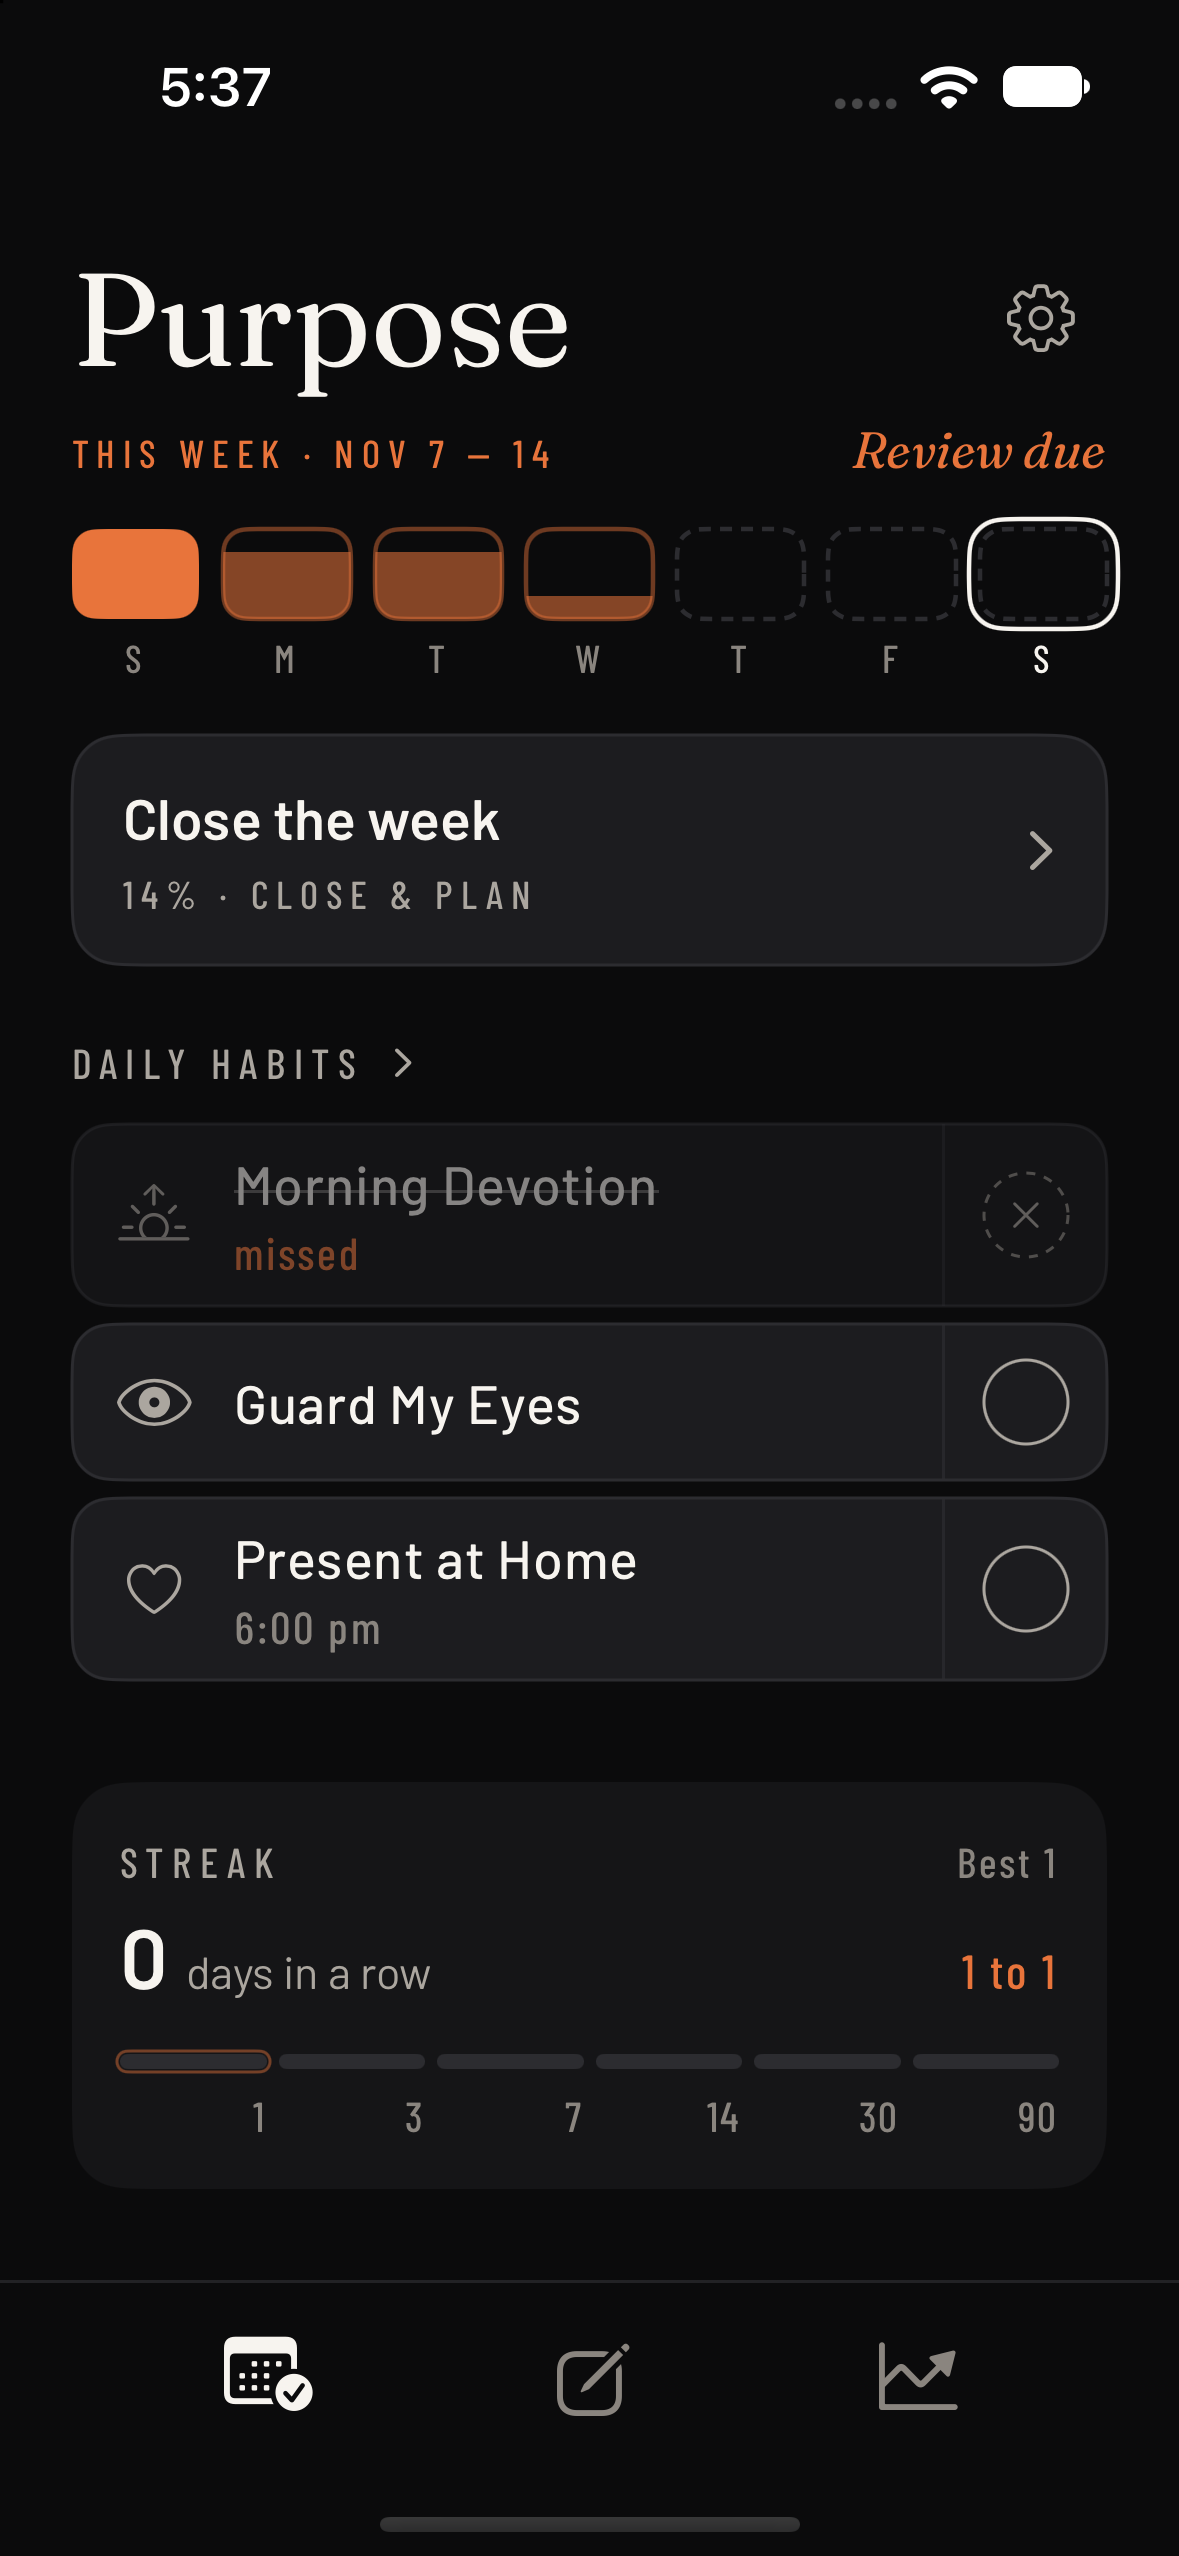
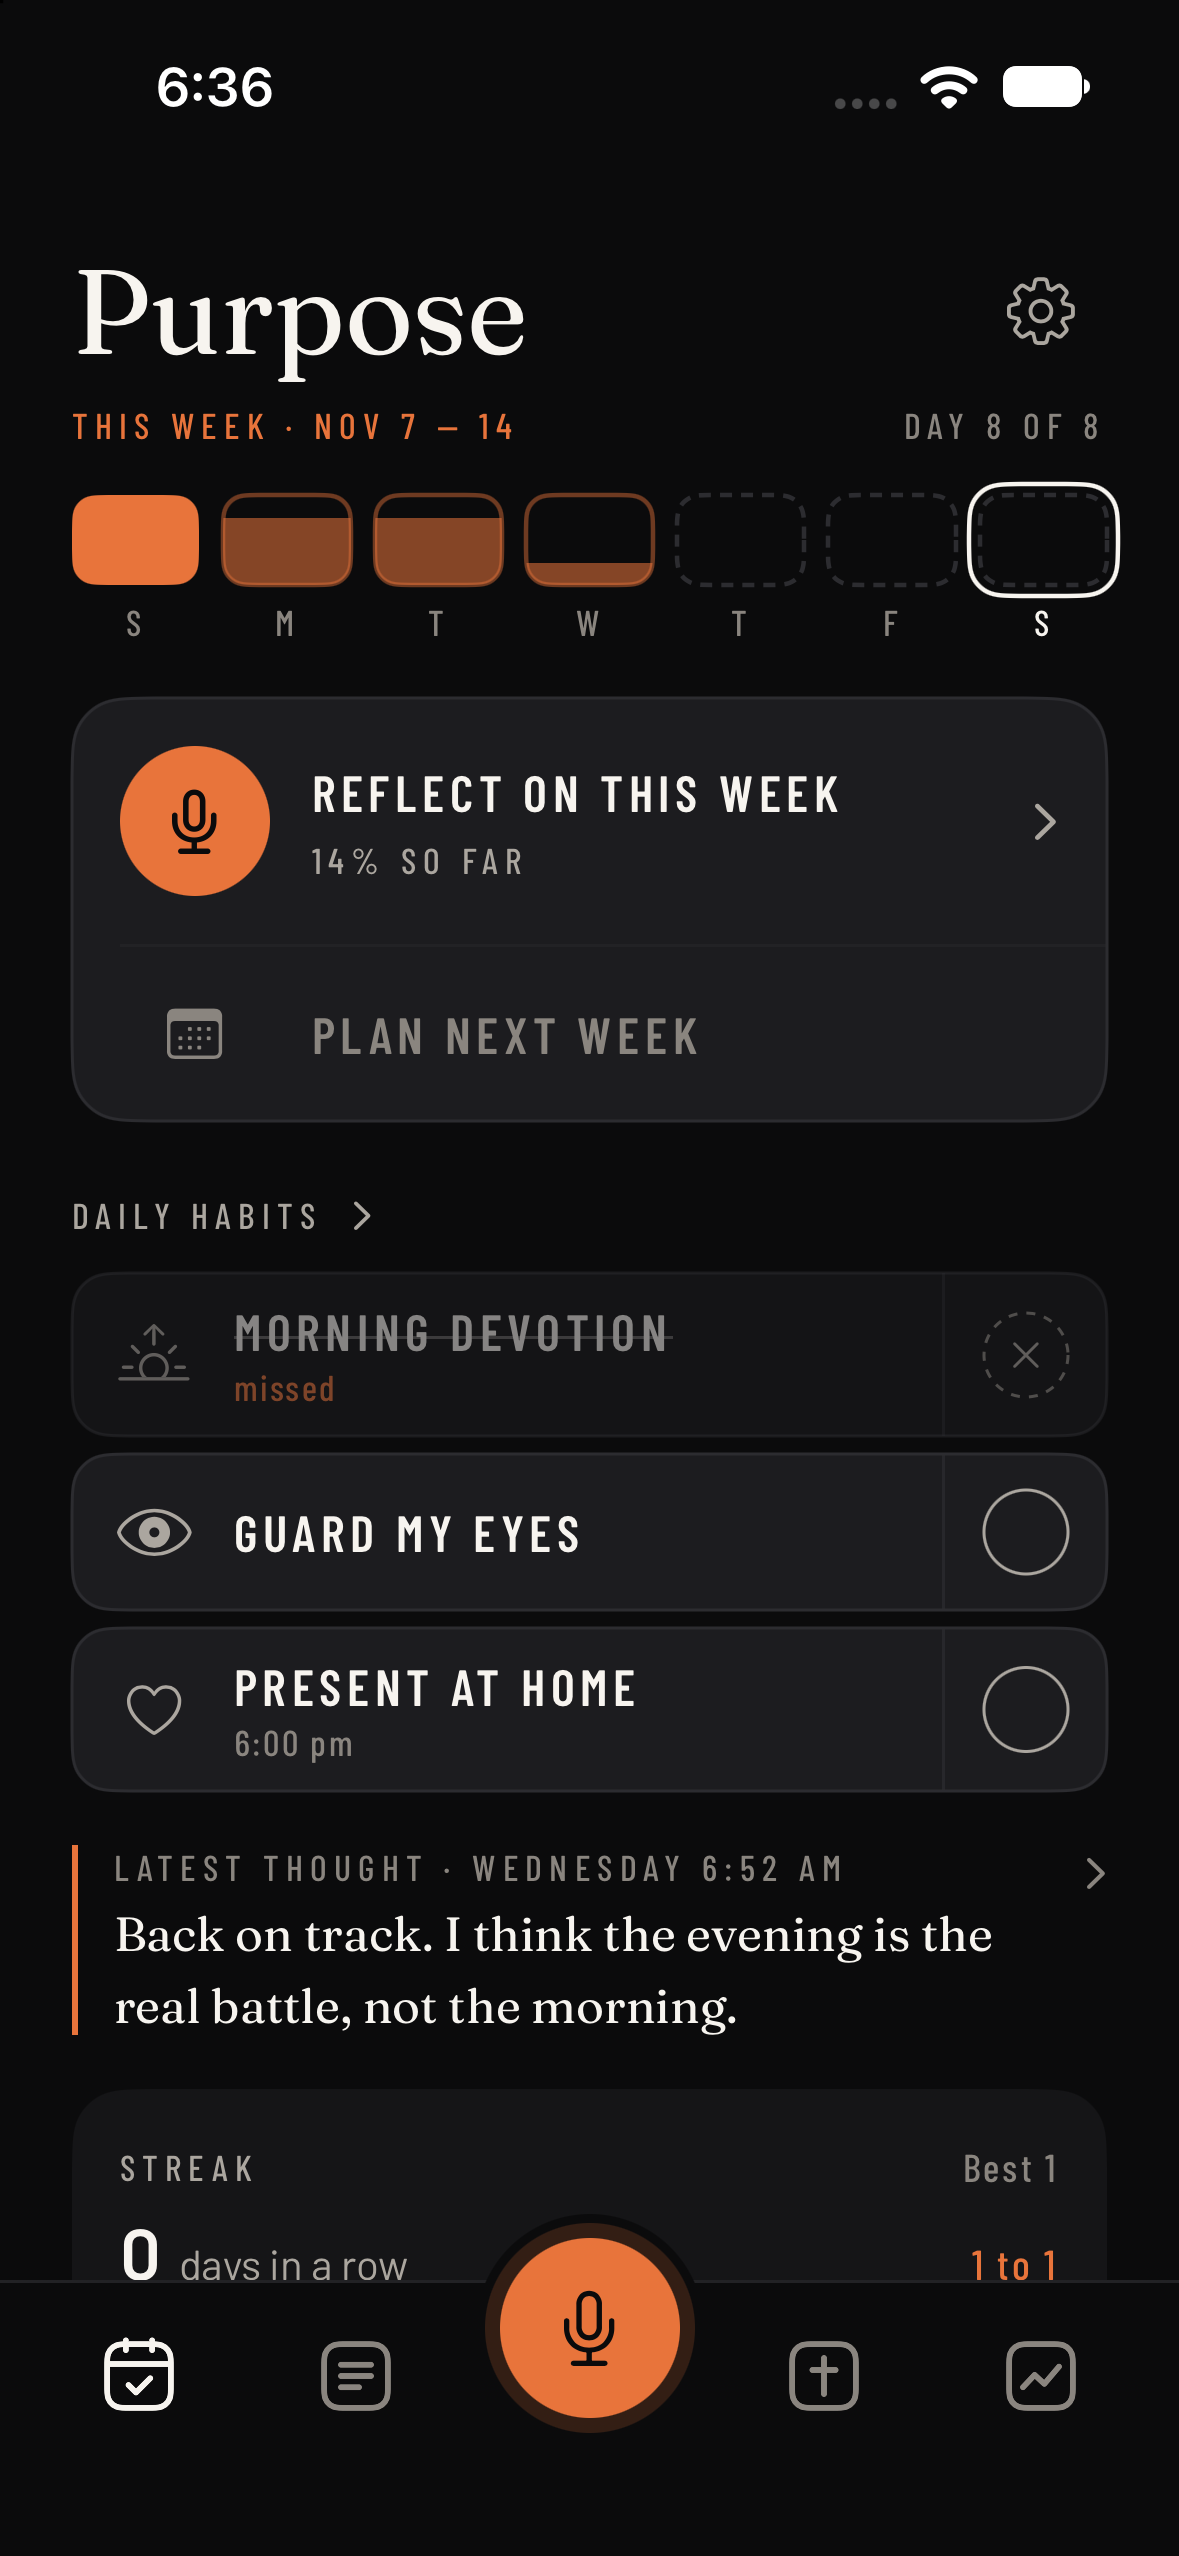
iOS: Reflect and Plan on This Week at review time; settled habits tuck away; mic opens the review listening

diff --git a/ios/WeeklyDirection/ThisWeekView.swift b/ios/WeeklyDirection/ThisWeekView.swift
@@ -3,6 +3,8 @@ import Combine
 
 /// This Week (web: renderWeek): focus word, day strip, the selected day's habits with their live states, streak.
 struct ThisWeekView: View {
+    /// review time, habits settled: the list is tucked away unless it was opened again
+    @State private var showHabits = false
     @EnvironmentObject var store: Store
     @EnvironmentObject var router: Router
     @State private var now = Now.date
@@ -85,11 +87,27 @@ struct ThisWeekView: View {
         }
         .padding(.top, 6)
         strip(x).padding(.top, 16).rise(0)
-        if x.due || reviewDay(w, x) { closeCard(w, due: x.due).padding(.top, 18) }
+        // review time: Reflect and Plan take the page; once today's habits are settled they tuck away under one row
+        let review = x.due || reviewDay(w, x)
+        let tucked = review && !showHabits && settled(w, x)
+        if review { reviewBlock(w, due: x.due).padding(.top, 18).rise(1) }
         if x.selKey == nil, !x.due, reviewDay(w, x) {
             Text("\(Fmt.dowl[store.settings.closeDay]) · review and plan from \(Fmt.hourLabel(store.settings.closeHour))")
                 .font(Theme.ui(14)).foregroundStyle(Theme.mu).padding(.top, 16)
         }
+        if tucked {
+            Button { Haptic.tick(); withAnimation(.spring(response: 0.4, dampingFraction: 0.85)) { showHabits = true } } label: {
+                HStack(spacing: 8) {
+                    Eyebrow(text: "Daily habits · done for today", color: Theme.mu, size: 12)
+                    Image(systemName: "chevron.down").font(.system(size: 11, weight: .medium)).foregroundStyle(Theme.mu)
+                    Spacer()
+                }
+                .padding(.vertical, 10).contentShape(Rectangle())
+            }
+            .buttonStyle(.plain).padding(.top, 16)
+            .transition(.opacity)
+        }
+        if !tucked {
         habitsHeader(x).padding(.top, 24).rise(1)
         VStack(spacing: 6) {
             let shown = w.commitments.filter { c in x.selDay.map { Rules.onDay(c, $0) } ?? true }
@@ -103,6 +121,8 @@ struct ThisWeekView: View {
             if let k = x.selKey, let d = x.selDay { doses(w, k, d, locked: k != x.todayK) }
         }
         .padding(.top, 12)
+        .transition(.move(edge: .top).combined(with: .opacity))
+        }
         LatestThought(week: w).padding(.top, 14).rise(6)
         StreakCard(info: Logic.streak(store.weeks, store.settings)).padding(.top, 14).rise(7)
     }
@@ -148,23 +168,58 @@ struct ThisWeekView: View {
         return it.isEmpty ? 0 : Double(it.filter { w.flag(k, $0) }.count) / Double(it.count)
     }
 
-    // MARK: close card, habits header, doses
+    // MARK: review block, habits header, doses
 
-    private func closeCard(_ w: Week, due: Bool) -> some View {
-        Button { router.sheet = .close(w.id) } label: {
-            HStack {
-                VStack(alignment: .leading, spacing: 6) {
-                    Text(due ? "Close the week" : "Weekly review").caps(16).foregroundStyle(Theme.tx)
-                    Eyebrow(text: "\(Logic.weekStats(w, store.settings).pct)% \(due ? "" : "so far ")· close & plan", color: Theme.mu)
-                }
-                Spacer()
-                Image(systemName: "chevron.right").font(.system(size: 15, weight: .medium)).foregroundStyle(Theme.mu)
-            }
-            .padding(.horizontal, 17).padding(.vertical, 16)
-            .background(Theme.card2, in: RoundedRectangle(cornerRadius: Theme.r(16), style: .continuous))
-            .overlay(RoundedRectangle(cornerRadius: Theme.r(16), style: .continuous).stroke(Theme.line, lineWidth: 1))
+    /// nothing left to do today: every habit of the day is done, failed or missed, and the doses are taken
+    private func settled(_ w: Week, _ x: Ctx) -> Bool {
+        guard x.habitToday, let d = x.days.first(where: { Rules.ymd($0) == x.todayK }) else { return true }
+        guard x.selKey == x.todayK else { return false }      // looking at another day: leave the list alone
+        let open = w.commitments.filter { Rules.onDay($0, d) }.contains { c in
+            let st = Rules.state(w, x.todayK, c)
+            return !(st == .done || st == .fail || st == .miss)
         }
-        .buttonStyle(.plain)
+        let doses = Logic.dayItems(w, d, store.settings).filter { $0 == "am" || $0 == "pm" }
+        return !open && doses.allSatisfy { w.flag(x.todayK, $0) }
+    }
+
+    /// Review time on the main page (Eddie, Nov 10 2026): 1 Reflect on this week (the mic starts it talking, the row
+    /// opens it to read or type), 2 Plan next week (opens once the week is closed).
+    private func reviewBlock(_ w: Week, due: Bool) -> some View {
+        VStack(alignment: .leading, spacing: 0) {
+            HStack(spacing: 14) {
+                Button { router.dictateOnOpen = true; router.sheet = .close(w.id) } label: {
+                    Image(systemName: "mic").font(.system(size: 20, weight: .medium)).foregroundStyle(Theme.onAc)
+                        .frame(width: 50, height: 50).background(Theme.ac, in: Circle())
+                }
+                .buttonStyle(.plain).accessibilityLabel("Reflect on this week by voice")
+                Button { router.sheet = .close(w.id) } label: {
+                    HStack {
+                        VStack(alignment: .leading, spacing: 5) {
+                            Text("Reflect on this week").caps(17).foregroundStyle(Theme.tx)
+                            Eyebrow(text: "\(Logic.weekStats(w, store.settings).pct)%\(due ? "" : " so far")", color: Theme.mu)
+                        }
+                        Spacer()
+                        Image(systemName: "chevron.right").font(.system(size: 14, weight: .medium)).foregroundStyle(Theme.mu)
+                    }
+                    .contentShape(Rectangle())
+                }
+                .buttonStyle(.plain).accessibilityIdentifier("openReview")
+            }
+            .padding(16)
+            Rectangle().fill(Theme.rule).frame(height: 1).padding(.leading, 16)
+            // planning needs the week closed first: the row is there to show what comes next, and opens the review
+            Button { router.sheet = .close(w.id) } label: {
+                HStack(spacing: 14) {
+                    Image(systemName: "calendar").font(.system(size: 19, weight: .light)).foregroundStyle(Theme.mu2).frame(width: 50, height: 34)
+                    Text("Plan next week").caps(17).foregroundStyle(Theme.mu2)
+                    Spacer()
+                }
+                .padding(.horizontal, 16).padding(.vertical, 12).contentShape(Rectangle())
+            }
+            .buttonStyle(.plain)
+        }
+        .background(Theme.card2, in: RoundedRectangle(cornerRadius: Theme.r(18), style: .continuous))
+        .overlay(RoundedRectangle(cornerRadius: Theme.r(18), style: .continuous).stroke(due ? Theme.acDim : Theme.line, lineWidth: 1))
     }
 
     private func habitsHeader(_ x: Ctx) -> some View {

diff --git a/ios/WeeklyDirection/CloseView.swift b/ios/WeeklyDirection/CloseView.swift
@@ -58,7 +58,7 @@ struct CloseSheet: View {
                         Eyebrow(text: "Caffeine next week", color: Theme.mu, size: 12).padding(.top, 22)
                         Text(lim > 0 ? "Starts at \(lim) mg · AM \(sp.am) · PM \(sp.pm)" : "Caffeine-free").font(Theme.ui(15)).foregroundStyle(Theme.tx).padding(.top, 6)
                     }
-                    DictateCard(title: "Reflect on this week", onText: spoken).padding(.top, 28)
+                    DictateCard(title: "Reflect on this week", autoStart: router.dictateOnOpen, onText: spoken).padding(.top, 28)
                     // the questions are a plain page: each one, then its answer (spoken or typed) straight under it
                     ForEach(Array(questions.enumerated()), id: \.offset) { i, q in
                         Rectangle().fill(Theme.rule).frame(height: 1).padding(.top, 22)
@@ -81,6 +81,7 @@ struct CloseSheet: View {
                 .onAppear {
                     guard !loaded else { return }
                     loaded = true
+                    router.dictateOnOpen = false
                     questions = Logic.qsOf(w, store.settings)
                     answers = Array(repeating: "", count: questions.count)
                     reflection = w.liveRefl

diff --git a/ios/WeeklyDirection/Dictate.swift b/ios/WeeklyDirection/Dictate.swift
@@ -6,6 +6,8 @@ import SwiftUI
 struct DictateCard: View {
     @EnvironmentObject var recorder: Recorder
     let title: String
+    /// opened from a mic button: start listening straight away
+    var autoStart = false
     /// what to do with the spoken words (tidy them, fill the fields); the card shows it is working until this returns
     let onText: (String) async -> String?
 
@@ -64,6 +66,11 @@ struct DictateCard: View {
         .overlay(RoundedRectangle(cornerRadius: Theme.r(18), style: .continuous).stroke(phase == .idle ? Color.clear : Theme.acDim, lineWidth: 1))
         .animation(.easeOut(duration: 0.18), value: phase)
         .onChange(of: recorder.elapsed) { _, e in if phase == .rec, e >= Recorder.maxSeconds - 1 { Task { await finish() } } }
+        .onAppear {
+            guard autoStart, phase == .idle else { return }
+            // after the sheet has finished rising
+            Task { try? await Task.sleep(nanoseconds: 450_000_000); if phase == .idle { await begin() } }
+        }
         .onDisappear { if phase == .rec { Task { _ = await recorder.finishDictation(cancel: true) } } }
     }
 

diff --git a/ios/WeeklyDirection/Router.swift b/ios/WeeklyDirection/Router.swift
@@ -35,6 +35,8 @@ final class Router: ObservableObject {
             half = false
         }
     }
+    /// the review was opened from the mic: start listening as it opens
+    var dictateOnOpen = false
     /// `-OpenScreen settings-…`: the settings page to open on
     var settingsPage: String?
     /// how tall the open sheet is; a half sheet goes to `.large` when its editor opens

diff --git a/ios/docs/PROGRESS.md b/ios/docs/PROGRESS.md
@@ -6,6 +6,12 @@
 - A prayer that is only its name opens as a half sheet with "Add to this prayer"; Edit or that line lifts it to the full page. A prayer with text, the life prayer and New still open full height. The list stays plain rows (a text preview line was tried and removed the same day: Eddie wants the list simple).
 - Layout only: no change to what is saved. Verified: simulator shots `prayer`, `prayer-short`. Not verified: on the phone; the lift to full height when Edit is tapped.
 
+## Review on the main page (Nov 10)
+- This Week on review day / when due: a block under the day strip with "Reflect on this week" (the mic opens the review and starts listening; the row opens it to read or type) and "Plan next week" (muted until the week is closed; opens the review). Replaces the old "Weekly review" card.
+- When every habit of today is done, failed or missed, the habit list tucks away under one row ("Daily habits · done for today", tap to open again).
+- Review page: no boxes, no standing subtext.
+- Verified: shots `week-review`, `week-due` (habits still open, so not tucked), 13 tests. Not verified: the tucked state, the mic auto-start, on the phone.
+
 ## Talk first: review and plan by voice (Nov 10)
 - `DictateCard` (Dictate.swift): "Reflect on this week" on the close sheet, "Plan next week" / "Talk through this week" above the Vision field. Records with the same recorder, transcribes with `transcribe`, hands the text to the screen; nothing joins the journal and nothing is saved until the screen's own Close / Seal.
 - New Cloud Function `tidy` (`functions/tidy.js`, exported in `functions/index.js`): cleans spoken text (fillers, repeats, false starts) without summarizing; review mode places what was said under the Saturday questions (`answers`, `other`). **Not deployed**: Eddie runs `firebase deploy --only functions:tidy`. Until then the app falls back to the words as spoken and says so.
